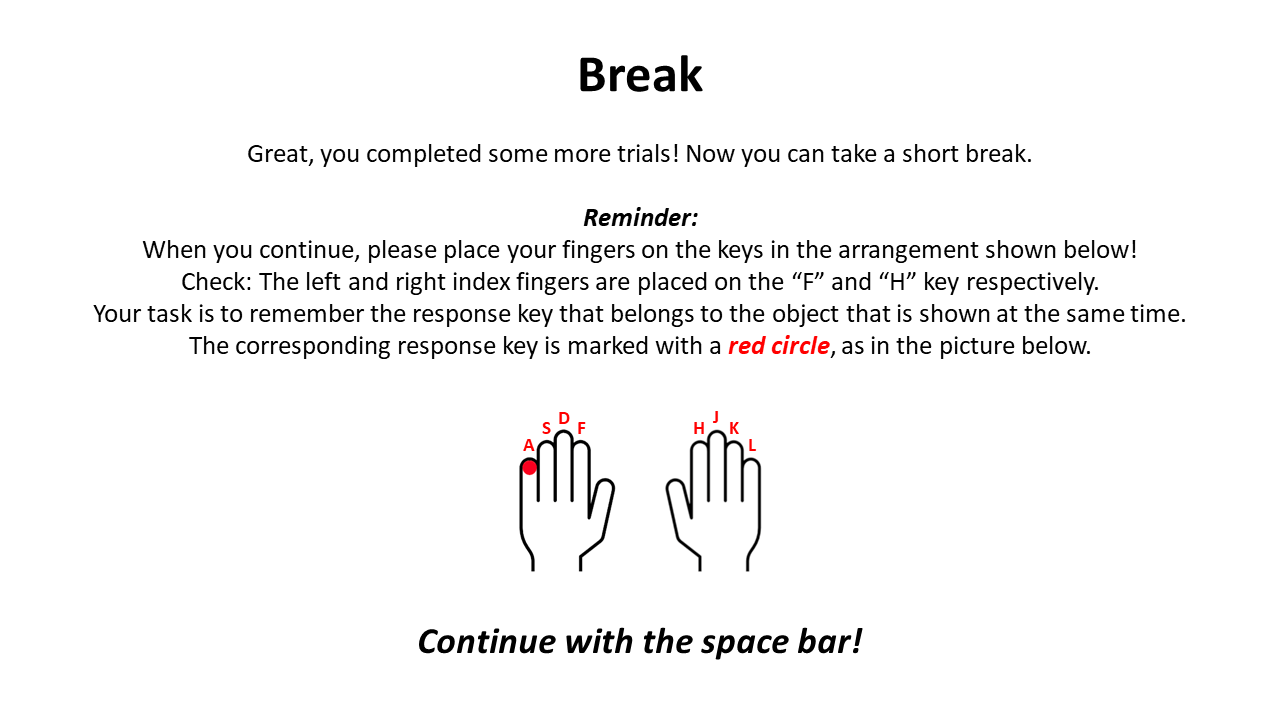
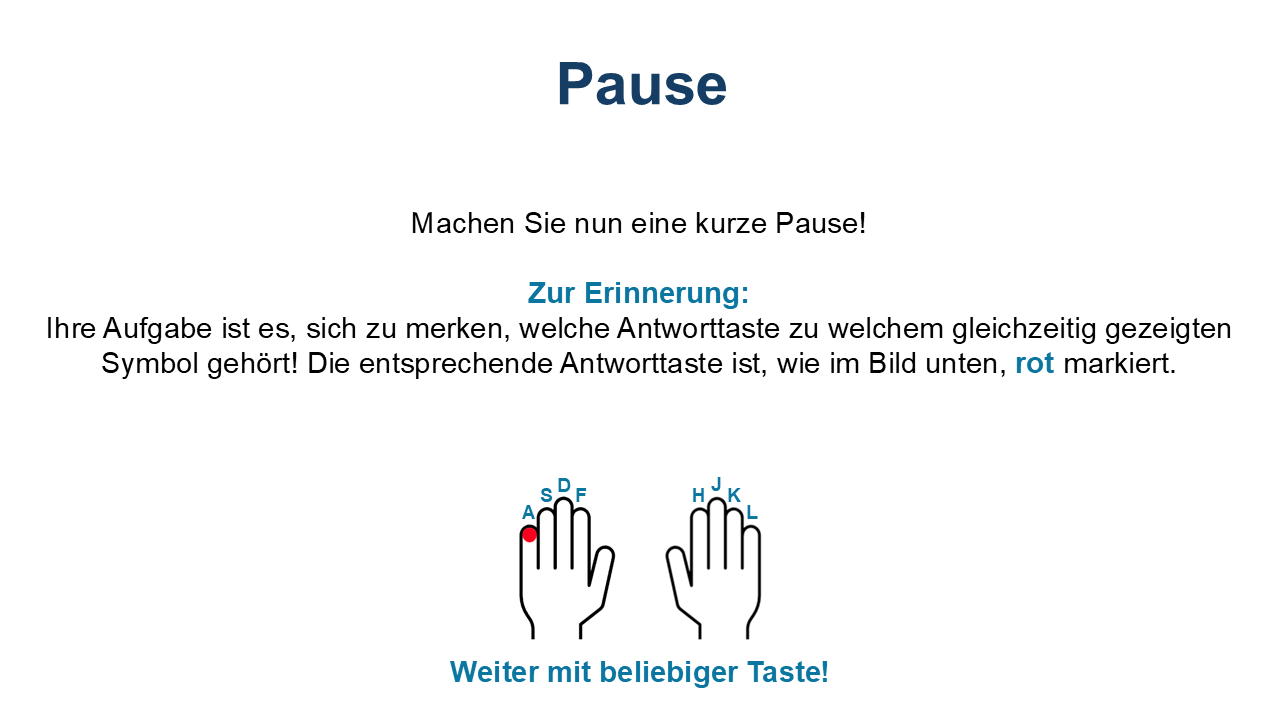
infos in german and button labels

diff --git a/tasks/object-response-binding-visual/src/instructions/fullScreen.ts b/tasks/object-response-binding-visual/src/instructions/fullScreen.ts
@@ -10,8 +10,9 @@ import { varSystem } from "../settings";
     type: fullscreen,
     fullscreen_mode: true,
     message: `<div class="main">
-      <p class = 'fb-text'>The experiment will switch to full screen</p>
+      <p class = 'fb-text'>Das Experiment wechselt in den Vollbildschirm-Modus</p>
     </div>`,
+    button_label: 'Weiter',
     on_finish: function() {
       // start to count that how many times participants has left the browser.
       varSystem.TRACK = true;

diff --git a/tasks/object-response-binding-visual/src/trials/trialScreens/ScreenInfoFingerCheck.ts b/tasks/object-response-binding-visual/src/trials/trialScreens/ScreenInfoFingerCheck.ts
@@ -7,7 +7,7 @@ export const screen_info_finger_check = function(exp_info, exp_trial) {
     // text object with info
     const stim_cue = {
       obj_type: 'text',
-      content: `Please make yourself ready to check the position of your fingers on the keyboard`,
+      content: `Bitte machen Sie sich bereit für den Finger-Check`,
       font: exp_info.font_cues,
       startX: exp_info.center[0],
       startY: exp_info.center[1]

diff --git a/tasks/object-response-binding-visual/src/trials/trialScreens/ScreenInfoProcSpeed.ts b/tasks/object-response-binding-visual/src/trials/trialScreens/ScreenInfoProcSpeed.ts
@@ -7,7 +7,7 @@ export const screen_info_proc_speed = function(exp_info, exp_trial) {
     // text object with info
     const stim_cue = {
       obj_type: 'text',
-      content: `Please make yourself ready for the reaction time task`,
+      content: `Bitte machen Sie sich bereit für die Reaktionszeit-Aufgabe`,
       font: exp_info.font_cues,
       startX: exp_info.center[0],
       startY: exp_info.center[1]

diff --git a/tasks/object-response-binding-visual/src/trials/trialScreens/ScreenInfoDec.ts b/tasks/object-response-binding-visual/src/trials/trialScreens/ScreenInfoDec.ts
@@ -7,7 +7,7 @@ export const screen_info_dec = function(exp_info, exp_trial) {
     // text object with info
     const stim_cue = {
       obj_type: 'text',
-      content: `Please make yourself ready for the declarative binding task`,
+      content: `Bitte machen Sie sich bereit für die Binding-Aufgabe`,
       font: exp_info.font_cues,
       startX: exp_info.center[0],
       startY: exp_info.center[1]

diff --git a/tasks/object-response-binding-visual/src/trials/trialScreens/ScreenInfoProc.ts b/tasks/object-response-binding-visual/src/trials/trialScreens/ScreenInfoProc.ts
@@ -7,7 +7,7 @@ export const screen_info_proc = function(exp_info, exp_trial) {
     // text object with info
     const stim_cue = {
       obj_type: 'text',
-      content: `Please make yourself ready for the procedural binding task`,
+      content: `Bitte machen Sie sich bereit für die Binding-Aufgabe`,
       font: exp_info.font_cues,
       startX: exp_info.center[0],
       startY: exp_info.center[1]

diff --git a/tasks/object-response-binding-visual/src/instructions/createInstrStart.ts b/tasks/object-response-binding-visual/src/instructions/createInstrStart.ts
@@ -68,6 +68,8 @@ export function createInstr(exp_info, instr_folder: string, start, end) {
     type: instructions,
     pages: instr_slides,
     show_clickable_nav: true,
+    button_label_previous: 'Zurück',
+    button_label_next: 'Weiter',
     data: { screenID: `instruction_${instr_folder}` }
     };
 
